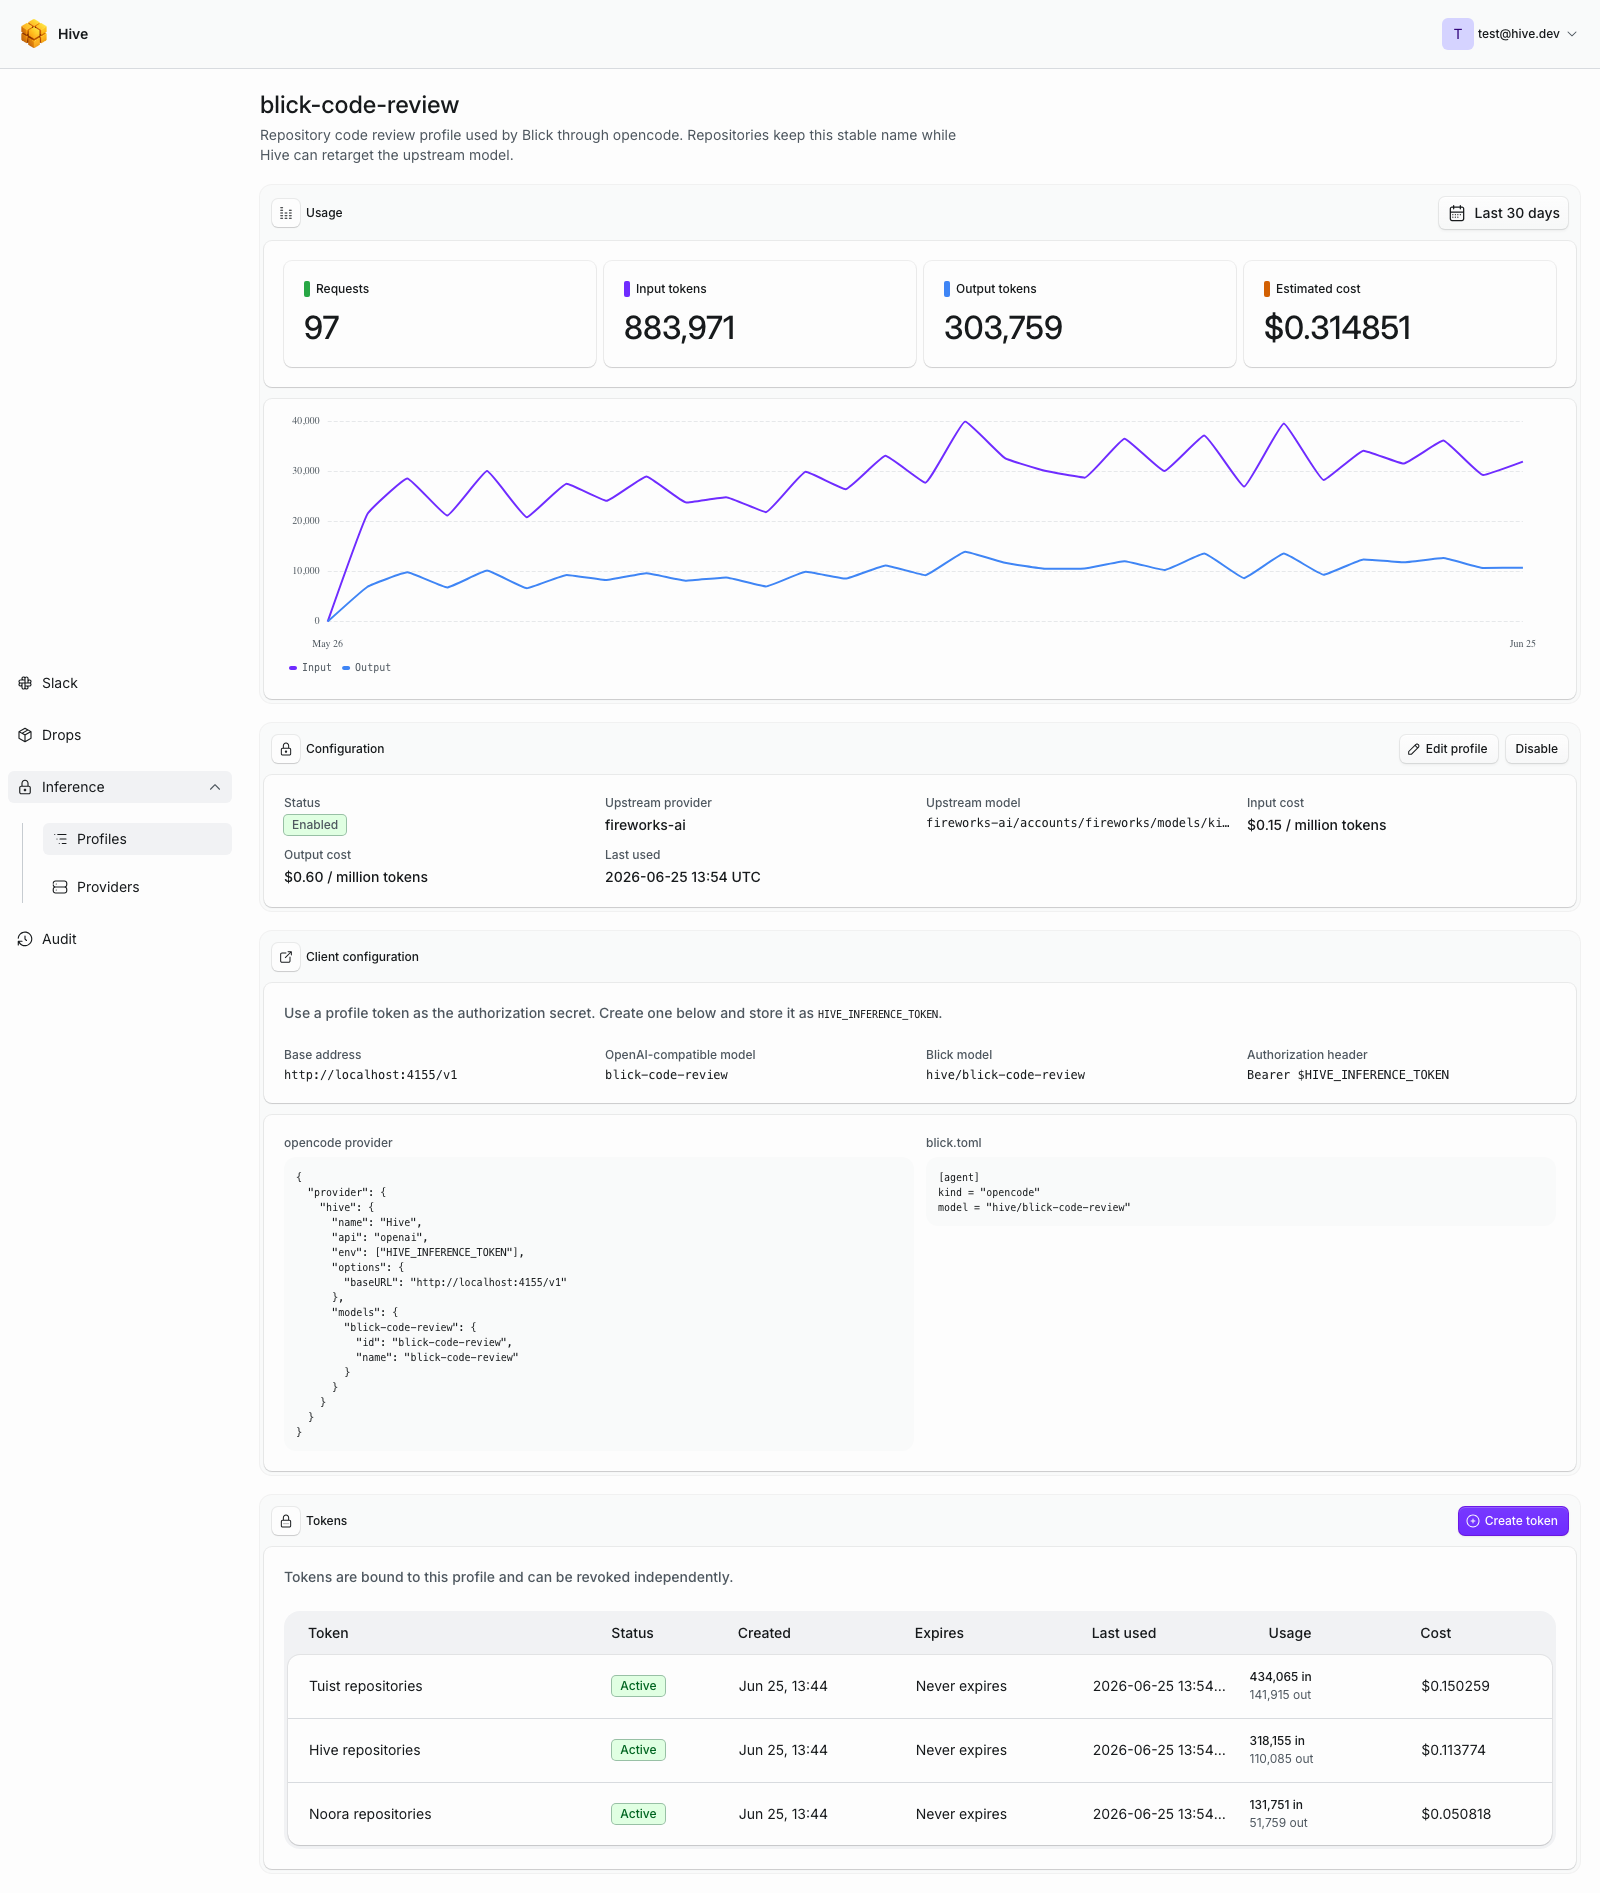
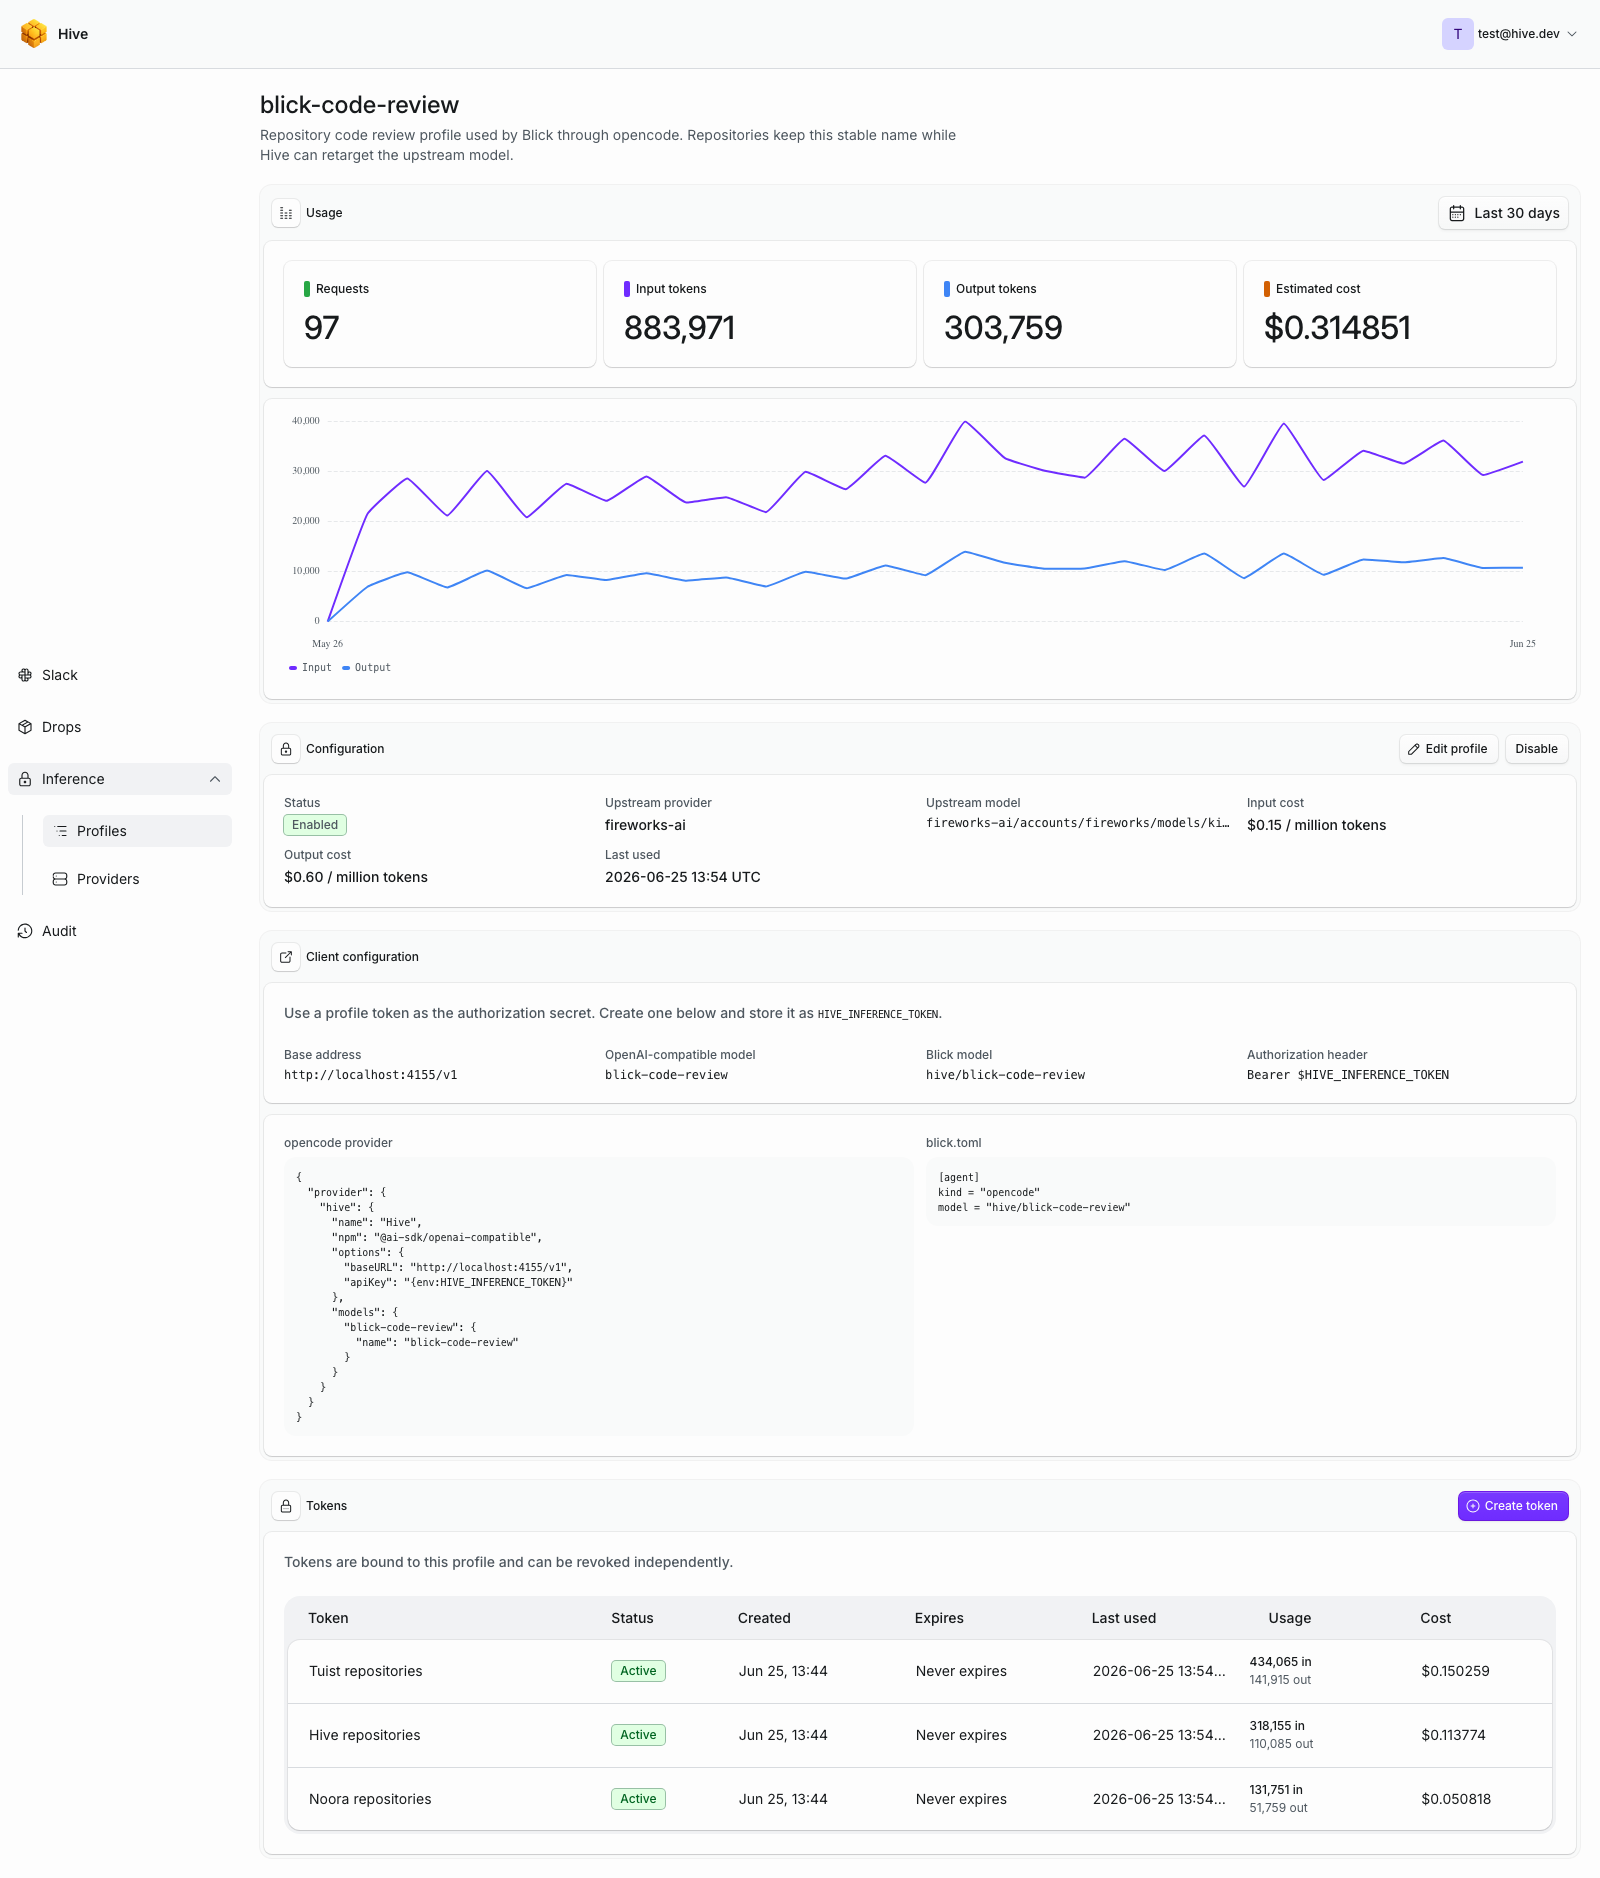
fix(inference): align opencode provider snippet

diff --git a/docs/guide/self-hosting/inference.md b/docs/guide/self-hosting/inference.md
@@ -110,17 +110,17 @@ Add a custom `opencode` provider named `hive`:
 
 ```json
 {
+  "$schema": "https://opencode.ai/config.json",
   "provider": {
     "hive": {
       "name": "Hive",
-      "api": "openai",
-      "env": ["HIVE_INFERENCE_TOKEN"],
+      "npm": "@ai-sdk/openai-compatible",
       "options": {
-        "baseURL": "https://hive.example.com/v1"
+        "baseURL": "https://hive.example.com/v1",
+        "apiKey": "{env:HIVE_INFERENCE_TOKEN}"
       },
       "models": {
         "blick-code-review": {
-          "id": "blick-code-review",
           "name": "Blick code review",
           "reasoning": true,
           "temperature": true,
